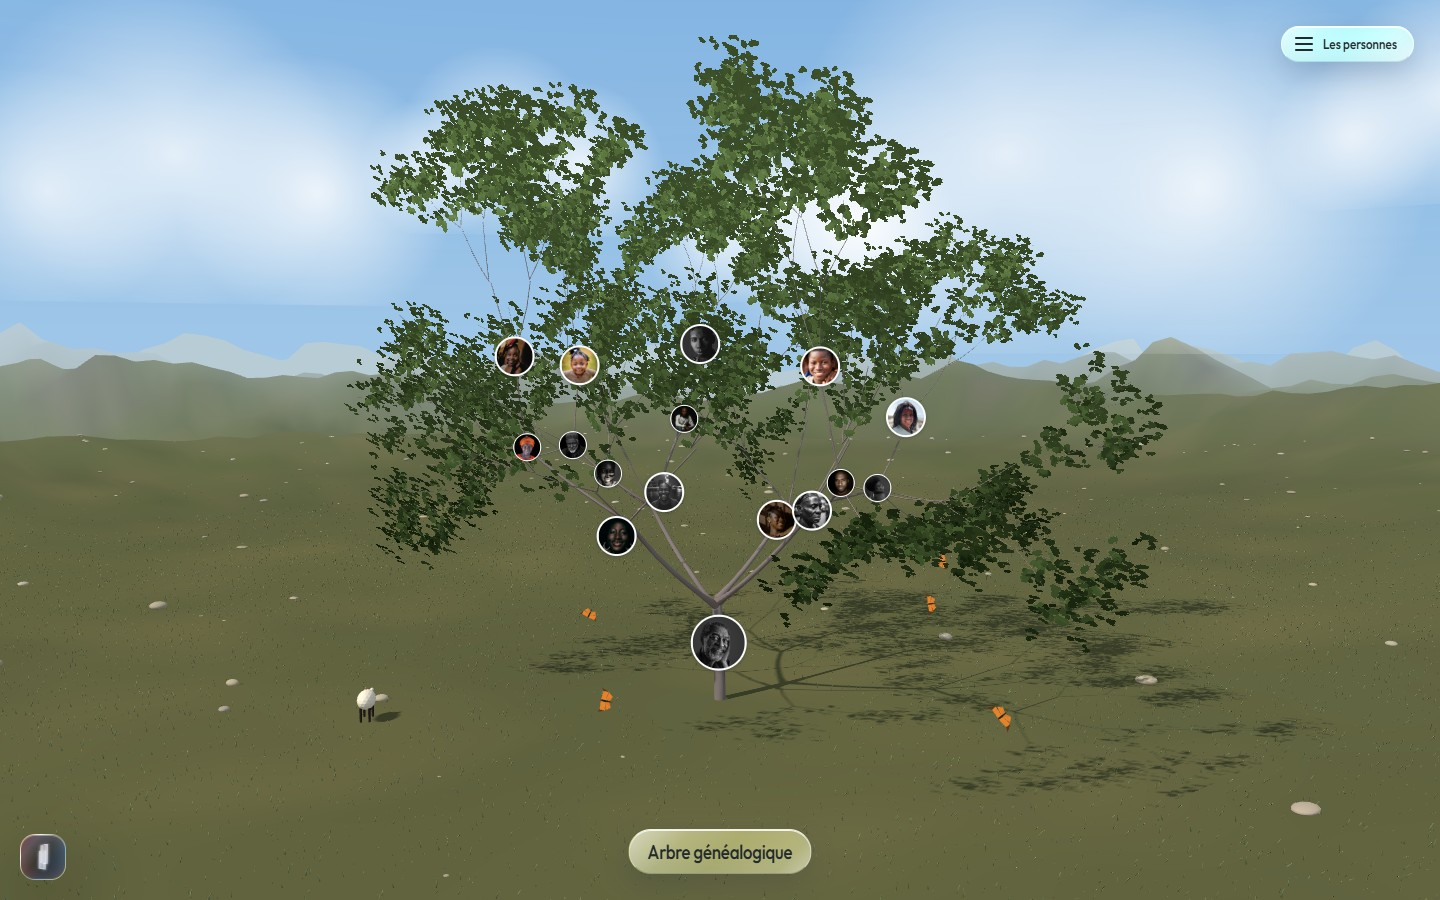
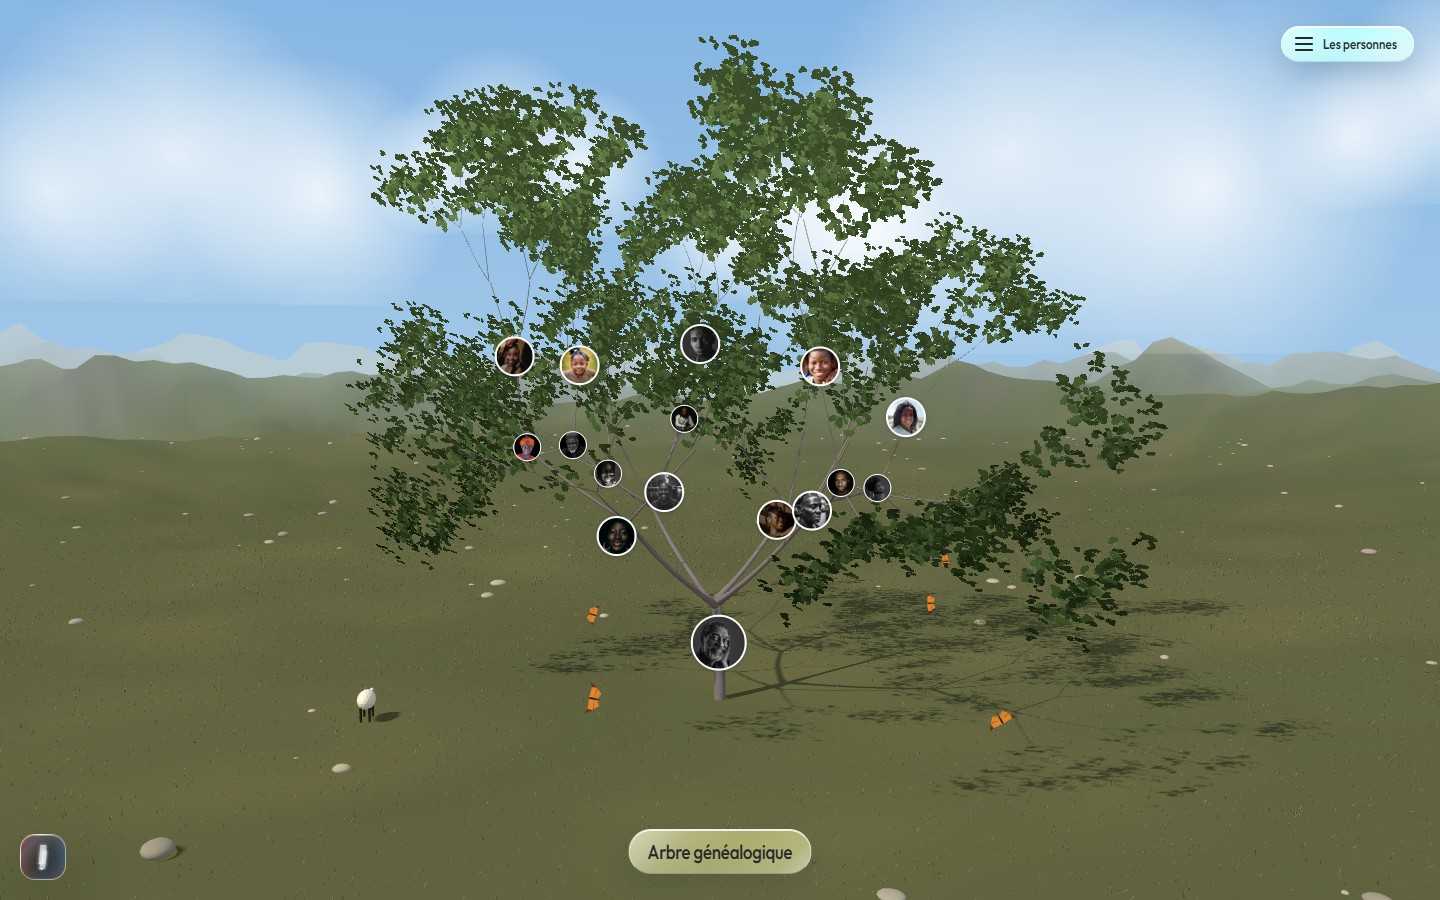
La barre GOD2 sur le serveur de developpement, et non sur un mode a part
Un outil qu il faut savoir demander n est pas un outil : elle se voit des
`npm run dev`. Elle ne fausse rien, le banc lisant la version construite, ou
le greffon n entre jamais. `npm run dev:nu` sert la page sans elle.

diff --git a/vite.config.ts b/vite.config.ts
@@ -1,14 +1,19 @@
 // GOD2 · Theophas Aine : le projet se construit et se sert seul.
 //
-//   npm run dev       developpement, port 5177
-//   npm run barre     developpement avec la barre GOD2, port 5179
+//   npm run dev       developpement avec la barre GOD2, port 5177
+//   npm run dev:nu    le meme sans la barre, quand on juge la scene a l oeil
 //   npm run build     version construite, dans dist/
 //   npm run preview   version construite servie, port 5178
 //
-// La barre de mesure GOD2 n est pas posee sur `dev`, et c est voulu : elle
-// tourne en continu, et le banc de la piece la comptait comme un cout de
-// l arbre. Elle a donc son mode a elle. Ainsi on peut regarder la scene et ses
-// chiffres en meme temps sans que la mesure de reference en herite.
+// La barre de mesure GOD2 est posee sur le serveur de developpement, et elle
+// n y gene pas la mesure de reference : le banc ne lit pas ce serveur, il lit
+// la version construite servie par `preview`, ou le greffon n entre jamais
+// (`apply: 'serve'`). On regarde donc la scene et ses chiffres en meme temps
+// sans que le banc en herite.
+//
+// Elle a d abord ete mise sur un mode a part, par prudence. C etait un mode de
+// trop : on lance `npm run dev`, on ne la voit pas, et un outil qu il faut
+// savoir demander n est pas un outil.
 
 import { existsSync } from 'node:fs'
 import { pathToFileURL } from 'node:url'
@@ -37,11 +42,11 @@ export default defineConfig(async ({ mode }) => ({
   // les visages de la famille et l icone vivent ici, pour que l arbre se
   // construise et se serve sans rien emprunter a cote.
   publicDir: path.resolve(__dirname, 'public'),
-  plugins: mode === 'barre' ? await barreSiPresente() : [],
+  plugins: mode === 'nu' ? [] : await barreSiPresente(),
   build: {
     outDir: path.resolve(__dirname, 'dist'),
     emptyOutDir: true,
   },
-  server: { port: mode === 'barre' ? 5179 : 5177, strictPort: true },
+  server: { port: 5177, strictPort: true },
   preview: { port: 5178, strictPort: true },
 }))

diff --git a/README.md b/README.md
@@ -23,23 +23,26 @@ ou une ligne de la liste pour ouvrir la fiche. La liste des personnes est
 repliée derrière le bouton en haut à droite : l'arbre est le sujet, la liste
 est un recours. Échap referme ce qui est ouvert.
 
-Pour regarder la scène et ses chiffres en même temps :
+### La barre d'atelier GOD2
 
-```
-npm run barre          # http://localhost:5179
-```
-
-C'est la barre d'atelier GOD2, un greffon Vite posé sur un mode à part. Le
-signe s'ouvre en bas à gauche : elle donne six écrans d'appareils avec leur
-coque, une bride de réseau réelle (3G lente, 3G rapide, 4G), et une sonde qui
-compte pendant qu'on fait défiler : images par seconde, pire image, tâches
+Elle est posée sur le serveur de développement : son signe s'ouvre en bas à
+gauche de la page, dès `npm run dev`. Elle donne six écrans d'appareils avec
+leur coque, une bride de réseau réelle (3G lente, 3G rapide, 4G) et une sonde
+qui compte pendant qu'on fait défiler : images par seconde, pire image, tâches
 longues de plus de 50 ms, décalage de mise en page, premier affichage, octets
 reçus et mémoire prise.
 
-Elle n'est **pas** sur `npm run dev`, et c'est voulu : elle tourne en continu,
-et le banc la comptait comme un coût de l'arbre. Elle vit dans les outils de la
-maison à côté du dépôt ; si ce dossier n'est pas là, `npm run barre` le dit et
-sert la page sans elle. Elle ne part jamais dans `dist/`.
+Elle ne fausse pas la mesure de référence : le banc ne lit pas ce serveur, il
+lit la version construite servie par `preview`, où le greffon n'entre jamais.
+Pour juger la scène à l'œil sans rien de posé dessus :
+
+```
+npm run dev:nu
+```
+
+Elle vit dans les outils de la maison à côté du dépôt ; si ce dossier n'est pas
+là, `npm run dev` le dit et sert la page sans elle. Elle ne part jamais dans
+`dist/`.
 
 Pour voir la version construite, celle qu'on met en ligne :
 
